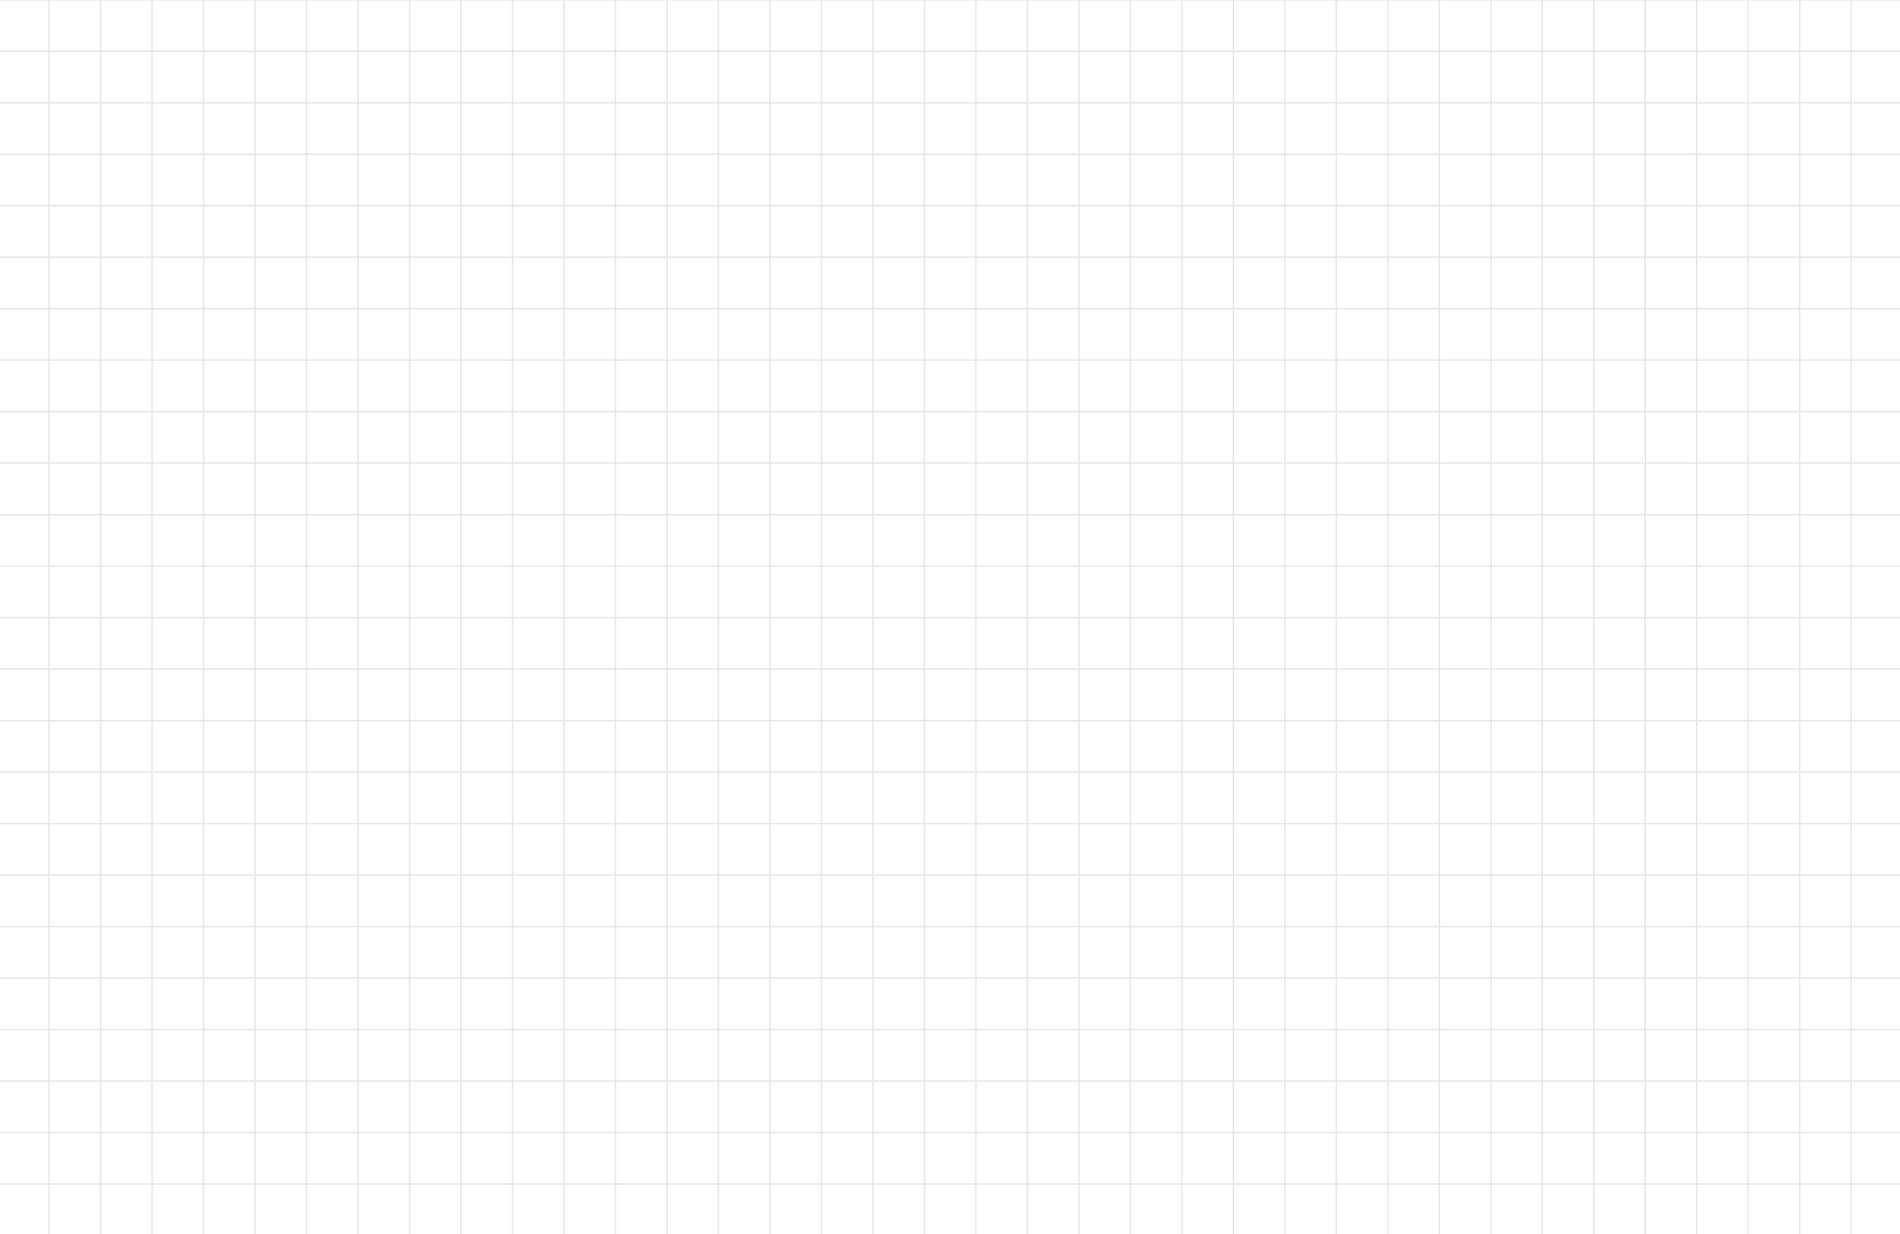
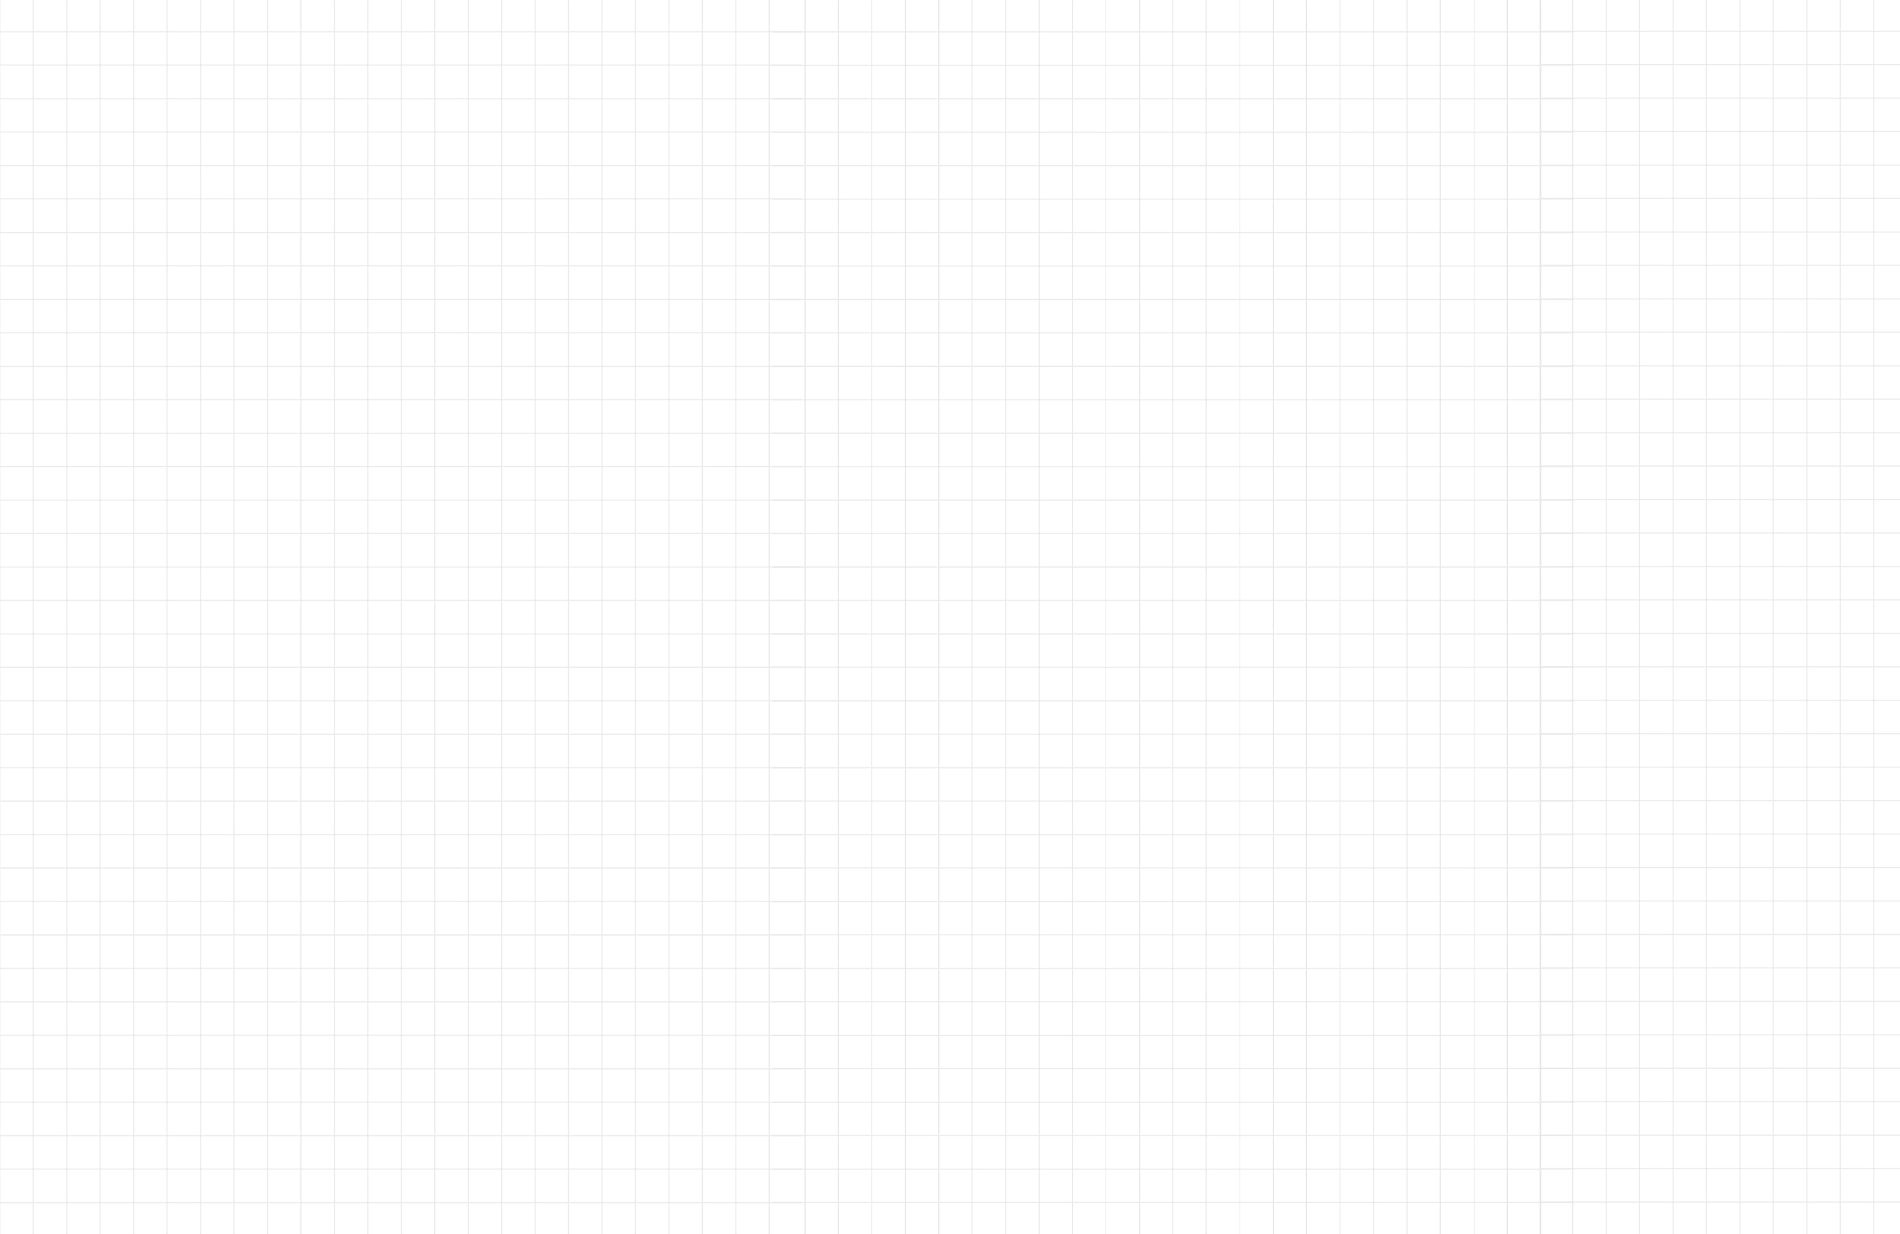
美化

diff --git a/styles.css b/styles.css
@@ -4,7 +4,7 @@ body {
     background-color: #F5FFFA;
 }
 .grid-paper {
-    background-image: url('https://i.wpic.cc/g/2023/07/10/64ab95746b74a.png'); /* 将路径修改为您网格图片的实际路径 */
+    background-image: url('grid-paper.png'); /* 将路径修改为您网格图片的实际路径 */
 }
 /* 页面布局样式 */
 header {
